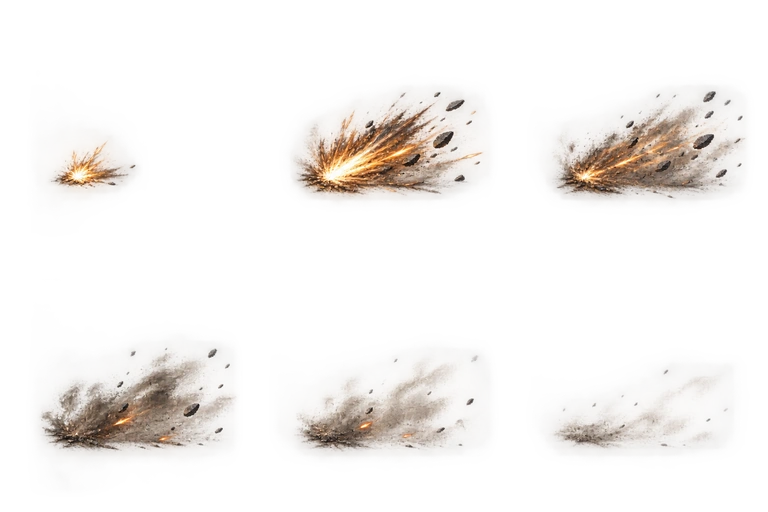
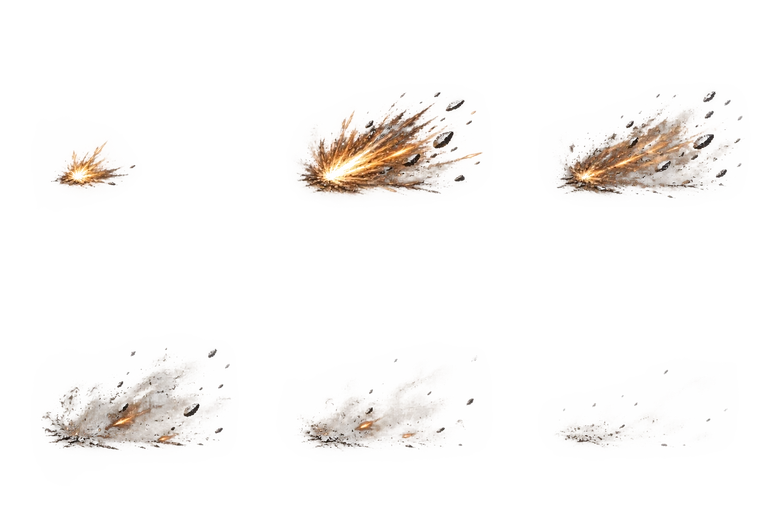
Remove the pale rectangular backing from the crowbar impact

diff --git a/app/v100ManualImpactArt.js b/app/v100ManualImpactArt.js
@@ -97,7 +97,7 @@ export const V100_MANUAL_IMPACT_ART=Object.freeze({
   "scout": {
     "id": "v100-hachi-intercept-impact",
     "path": "/art/quality-20261126/vfx/hachi-intercept-six-r1.webp",
-    "hash": "sha256-e3579346951cd87904a9e6686e2211126a94d8a625288300cdb877a58ef7a273",
+    "hash": "sha256-dff77d4bc37b1dfc64434e096494d2fc23c53dacefe6dc63b068e27493ad8f13",
     "width": 768,
     "height": 512,
     "columns": 3,
